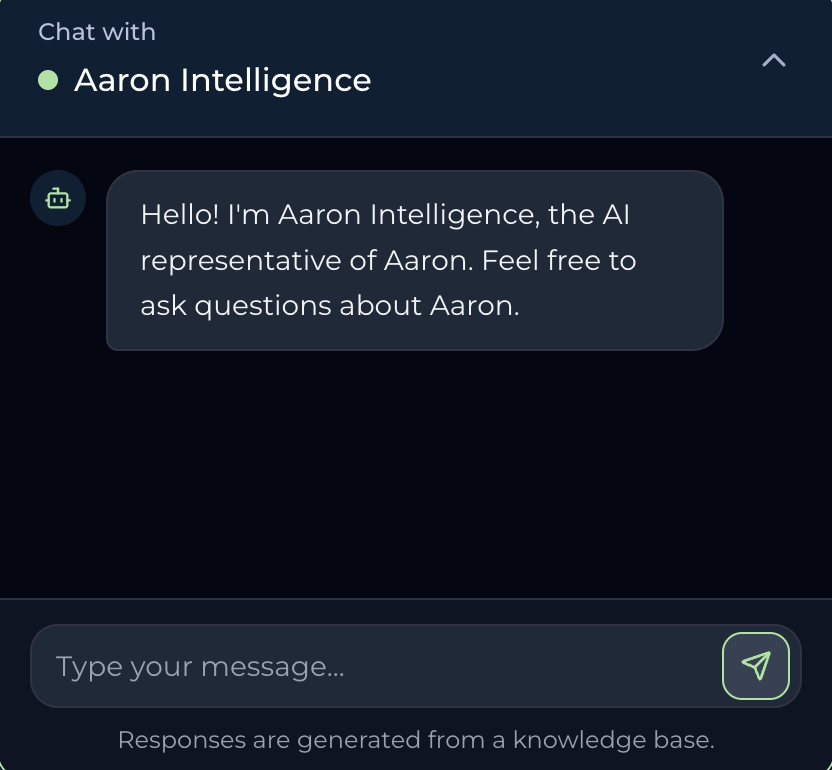
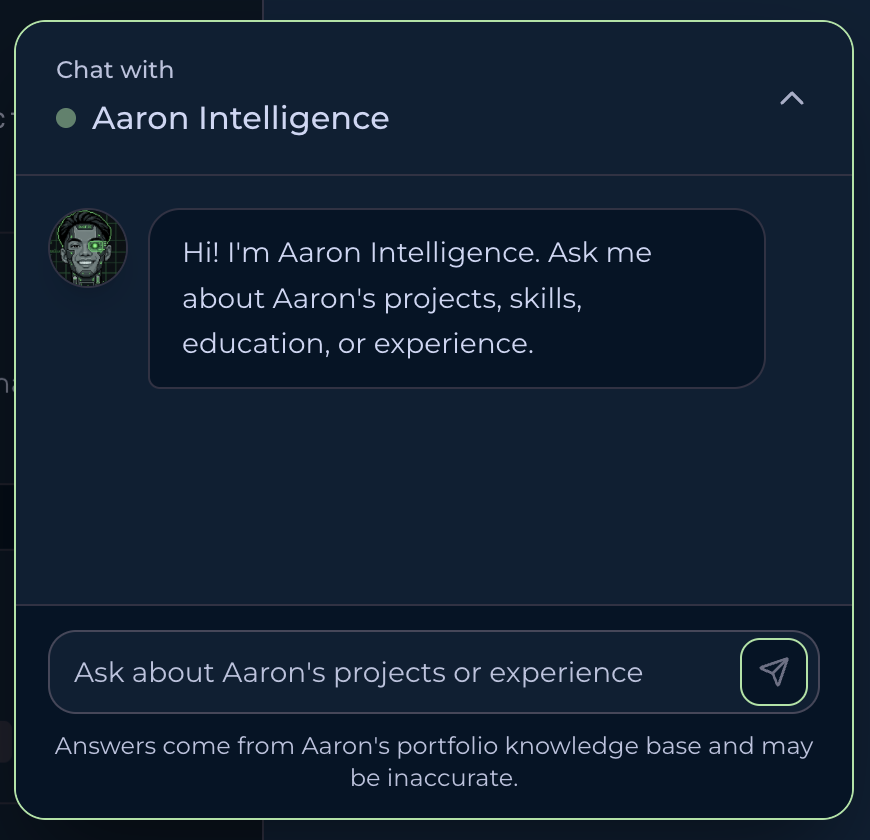
feat(projects): refresh showcase content and previews

diff --git a/frontend/src/projectsData.js b/frontend/src/projectsData.js
@@ -5,9 +5,9 @@ export const projects = [
     name: "KUMPAS",
     year: "2026",
     shortDescription:
-      "Real-time Filipino Sign Language recognition and translation across multiple Philippine languages.",
+      "Real-time FSL recognition across 29 gesture classes, with six-language translation from 30-frame landmark sequences.",
     description:
-      "Machine learning-powered Filipino Sign Language recognition and translation system that uses webcam input to recognize FSL gestures and translate them into readable text across multiple Philippine dialects. Built during ACM TechSprint: Asteria 2026.",
+      "Accessibility-focused Filipino Sign Language translator built during ACM TechSprint: Asteria 2026. As the ML Developer, I helped build and deploy a webcam recognition pipeline covering 29 gesture classes, 30-frame sequences, and 126 hand-landmark features per frame, with output across six Philippine languages.",
     tags: ["React", "Vite", "TensorFlow", "MediaPipe", "OpenCV", "Railway", "Vercel"],
     role: "ML Developer",
     context: "ACM TechSprint: Asteria 2026",
@@ -18,9 +18,10 @@ export const projects = [
     imageAlt:
       "KUMPAS homepage presenting its Filipino Sign Language translator and six-step workflow.",
     highlights: [
-      "Recognizes Filipino Sign Language gestures from a live webcam feed using a custom machine learning pipeline.",
-      "Translates recognized signs into readable Filipino and multiple Philippine languages in real time.",
-      "Built an accessible, responsive interface that makes multilingual communication easier for Deaf and hearing users.",
+      "An accessibility-focused web app that recognizes Filipino Sign Language from webcam input and translates signs into readable Philippine languages.",
+      "Built the recognition pipeline for 29 FSL gesture classes, representing each sample as a 30-frame sequence with 126 MediaPipe landmark features per frame.",
+      "Connected live webcam inference to readable translations across six Philippine languages and helped deploy the Vercel frontend and Railway backend.",
+      "Authored 14 of the team repository's 42 commits while contributing as the project's ML Developer.",
     ],
     icon: Languages,
     github: "https://github.com/Praybeyt-Benjamin-Techsprint/Kumpas",
@@ -30,9 +31,9 @@ export const projects = [
     name: "Aaron Intelligence",
     year: "2026",
     shortDescription:
-      "RAG-powered portfolio assistant grounded in a personal knowledge base.",
+      "RAG portfolio assistant evaluated with 65 questions; the current partial run returned successful responses for 93.8% of requests with a 2.63-second p50.",
     description:
-      "Personalized AI portfolio chatbot that answers questions about my projects, skills, education, and experience using a RAG-powered knowledge base.",
+      "Personalized portfolio assistant grounded in more than 30 knowledge documents about my projects, skills, education, and experience. Its three-run evaluation plan covers 195 requests, with 64 completed as of August 9, 2026.",
     tags: ["React", "Vite", "FastAPI", "Supabase", "pgvector", "Gemini"],
     role: "Full-stack Developer",
     context: "Personal project",
@@ -44,9 +45,10 @@ export const projects = [
       "Aaron Intelligence chat interface introducing the AI portfolio representative.",
     imageFit: "contain",
     highlights: [
-      "Built a retrieval-augmented assistant that answers questions about my projects, skills, education, and experience.",
-      "Grounds Gemini responses in a Supabase and pgvector knowledge base instead of relying on generic model memory.",
-      "Ships as a responsive React portfolio with a FastAPI retrieval layer and theme-aware interface.",
+      "A RAG-powered portfolio assistant that answers questions about my projects, skills, education, and experience from a curated knowledge base.",
+      "Grounds Gemini responses in a Supabase and pgvector knowledge base containing more than 30 curated documents.",
+      "Created a 65-question evaluation suite with three planned runs; the partial run completed 64 requests with 93.8% successful responses, a 2.63-second p50, and a 15.36-second p95.",
+      "Ships as a responsive React portfolio with a FastAPI retrieval layer, optional Langfuse tracing, and a theme-aware chat interface.",
     ],
     icon: Bot,
     github: "https://github.com/AaronArada11/Aaron-Intelligence",
@@ -56,9 +58,9 @@ export const projects = [
     name: "Mirror Mentor",
     year: "2026",
     shortDescription:
-      "A Socratic coding mentor that teaches through guided questions.",
+      "Socratic coding mentor with 17 endpoints and four-phase feedback, tested by five students and awarded fourth place.",
     description:
-      "AI-powered educational platform that helps students improve programming skills through guided Socratic questioning instead of direct answers. Built during ACM Developers Week.",
+      "AI-powered educational platform built during ACM Developers Week to teach programming through guided questions instead of direct answers. As Project Lead, I led backend development across 17 REST endpoints and a four-phase Socratic feedback workflow.",
     tags: ["Gemini", "Supabase", "FastAPI", "Vercel"],
     role: "Project Lead",
     context: "ACM Developers Week · 4th place",
@@ -69,9 +71,10 @@ export const projects = [
     imageAlt:
       "Mirror Mentor interface with side-by-side code editor and AI Professor panels.",
     highlights: [
-      "Guides students through code problems with Socratic questions rather than giving away direct answers.",
-      "Combines Gemini analysis with persistent Supabase conversations and secure authentication workflows.",
-      "Led the project from learning concept to a deployed educational platform, earning 4th place at ACM Developers Week.",
+      "An AI coding mentor that helps students solve programming problems through Socratic questions instead of direct answers.",
+      "Designed 17 REST endpoints for authentication, conversations, monitoring, and Gemini-assisted code analysis.",
+      "Structured feedback into four Socratic phases and tested conversation flow, authentication, feedback quality, and usability with five students.",
+      "Authored 18 of the team repository's 28 commits while leading the project to fourth place at ACM Developers Week.",
     ],
     icon: MirrorRectangular,
     github: "https://github.com/Goodness-Gracious-GG/demo",
@@ -80,9 +83,9 @@ export const projects = [
     name: "Aaron Toolkit",
     year: "2026",
     shortDescription:
-      "Registry-driven web utility catalog for media, document, image, and QR workflows.",
+      "Registry-driven utility platform with six tools, queued workers, object storage, container deployment, and 24 test files.",
     description:
-      "Extensible web app for focused utilities, including QR generation, permitted-media downloads, image conversion, and PDF-to-DOCX conversion.",
+      "Extensible utility platform with six registered tools spanning media downloads, document and image conversion, QR generation, and schedule comparison. The production architecture separates web and worker processes through Redis queues and S3-compatible artifact storage.",
     tags: ["Vite", "Python", "FastAPI", "FFmpeg", "Redis", "S3"],
     role: "Full-stack Developer",
     context: "Personal project",
@@ -91,11 +94,12 @@ export const projects = [
     previewColor: "var(--ctp-green)",
     image: "/images/projects/aaron-toolkit.png",
     imageAlt:
-      "Aaron Toolkit interface showing its searchable catalog of four active utilities.",
+      "Aaron Toolkit interface showing its searchable utility catalog.",
     highlights: [
-      "Built an extensible utility catalog where adding a tool manifest and feature module automatically updates search, navigation, and routing.",
-      "Ships four initial tools: a link QR generator, permitted YouTube downloader, image format converter, and PDF-to-Word converter.",
-      "Designed a production architecture with a Vite frontend, Python API and worker processes, Redis-backed queues, and S3-compatible artifact storage.",
+      "An extensible web utility platform for media downloads, file conversion, QR generation, and schedule comparison.",
+      "Built a manifest-driven catalog where each tool automatically joins search, navigation, and routing without a manual homepage update.",
+      "Ships six registered utilities across media, document, image, QR, and schedule-comparison workflows.",
+      "Separated web and worker processes with Redis-backed queues, S3-compatible storage, Docker deployment, and 24 backend, frontend, and end-to-end test files.",
     ],
     icon: Wrench,
     github: "https://github.com/AaronArada11/aaron-toolkit",
@@ -104,9 +108,9 @@ export const projects = [
     name: "AlgoVisualizer",
     year: "2026",
     shortDescription:
-      "Interactive visual lessons for sorting and pathfinding algorithms.",
+      "Interactive lessons for 11 algorithms: seven sorting methods and four pathfinding strategies.",
     description:
-      "Interactive algorithm visualization tool designed to help students and developers understand fundamental computer science concepts through real-time animations and visual feedback.",
+      "Interactive learning tool that turns 11 algorithms into step-by-step visual lessons. Learners can compare seven sorting methods and four pathfinding strategies while changing speed, array data, and traversal conditions.",
     tags: ["React", "JavaScript", "CSS"],
     role: "Frontend Developer",
     context: "Educational project",
@@ -117,9 +121,10 @@ export const projects = [
     imageAlt:
       "AlgoVisualizer sorting interface with algorithm controls and an array of green bars.",
     highlights: [
-      "Turns sorting and pathfinding algorithms into step-by-step animations that expose comparisons, swaps, and traversal order.",
-      "Lets learners change algorithms and visualization parameters to understand how each approach behaves.",
-      "Designed the interface as an interactive learning tool for students building algorithm intuition.",
+      "An interactive learning tool that visualizes sorting and pathfinding algorithms step by step.",
+      "Visualizes seven sorting algorithms, including merge, quick, heap, bubble, selection, radix, and insertion sort.",
+      "Demonstrates A*, Dijkstra, depth-first search, and breadth-first search with weighted grids and reconstructed paths.",
+      "Exposes comparisons, swaps, visits, and traversal order through configurable real-time animation controls.",
     ],
     icon: BarChart2,
     github: "https://github.com/AaronArada11/AlgoVisualizer",

diff --git a/frontend/src/components/ProjectsPage.jsx b/frontend/src/components/ProjectsPage.jsx
@@ -88,7 +88,10 @@ function ProjectShowcase({ project, index }) {
   return (
     <article
       className="project-showcase"
-      style={{ "--project-index": index }}
+      style={{
+        "--project-index": index,
+        "--project-accent": project.previewColor,
+      }}
     >
       <ProjectCommand
         className="project-showcase__command"
@@ -150,7 +153,7 @@ export function ProjectsPage() {
           </ProjectCommand>
           <h1>Projects</h1>
           <p className="projects-hero__output">
-            {projects.length} projects · last updated 2026
+            {projects.length} projects · last updated August 2026
           </p>
           <div className="projects-hero__rule">
             <span>
